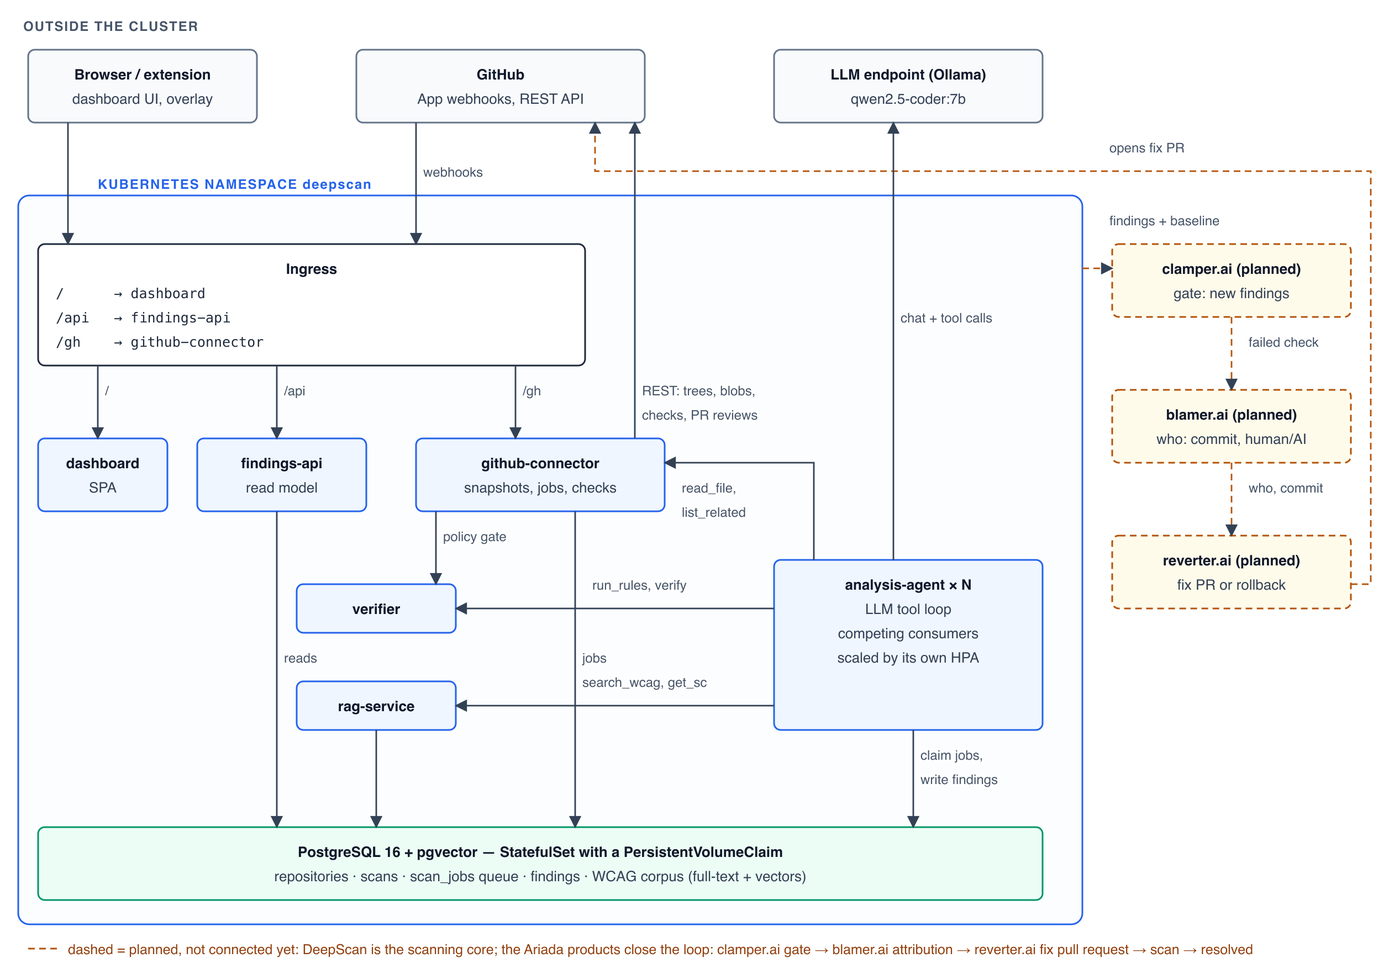
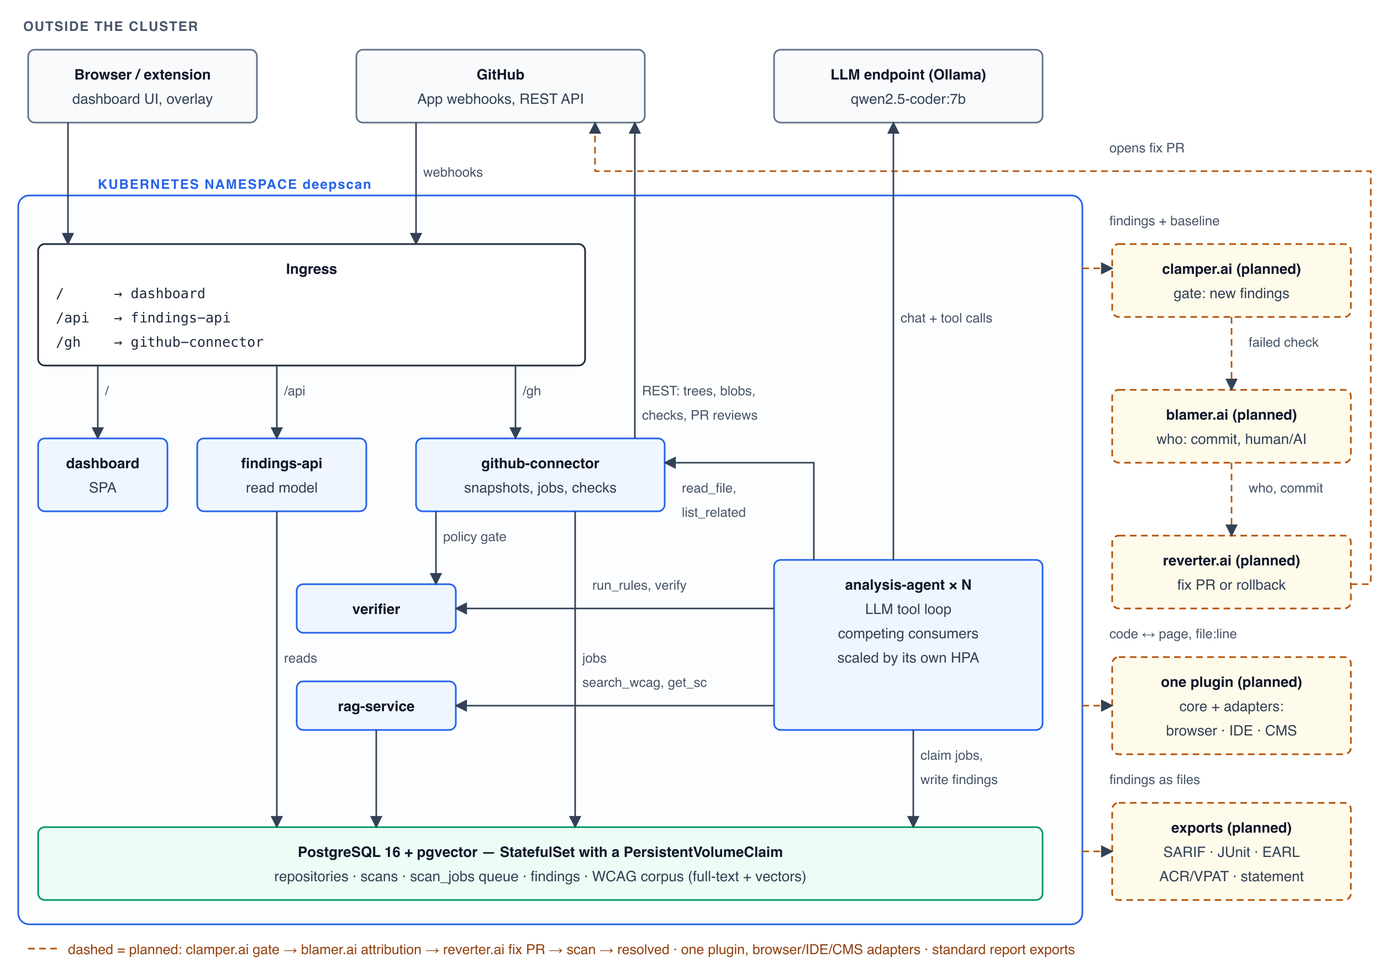
Show model load next to the elapsed time, and draw the plugin and export roadmap
While a scan runs, the scan page shows how busy the hardware behind the model
is: the host GPU or CPU in host mode (scripts/host-load.mjs, started by
deploy.sh), the Ollama pod's cores in cluster mode (metrics API, read with a
findings-api service account granted only in that overlay). kind-up.sh now
installs metrics-server, which the HPAs needed anyway.

The architecture diagram and REPORT §5 gain two planned (dashed) pieces: one
plugin core with browser, editor and CMS adapters, working from code to page
and back, and exports in standard report formats (SARIF, JUnit XML, EARL,
ACR/VPAT, accessibility statement).

findings-api 1.2.0, dashboard 1.2.1.

diff --git a/services/findings-api/src/model-load.ts b/services/findings-api/src/model-load.ts
@@ -1,0 +1,97 @@
+/**
+ * How busy the hardware behind the model is, for the scan page. Ollama's /api/ps says which model is
+ * loaded and whether it sits in GPU memory; the load itself comes from wherever the model runs:
+ *   host     scripts/host-load.mjs next to the host's Ollama (the cluster cannot see the host's GPU)
+ *   cluster  the metrics API (metrics-server) for the ollama pod
+ *   mock     nothing to measure
+ */
+import fs from "node:fs";
+import https from "node:https";
+import { z } from "zod";
+import type { ProgressResponse } from "@deepscan/contracts";
+
+export type ModelLoad = NonNullable<z.output<typeof ProgressResponse>["model"]>;
+export type RunsOn = ModelLoad["runsOn"];
+
+const Ps = z.object({ models: z.array(z.object({ name: z.string(), size: z.number(), size_vram: z.number().optional() })) });
+const HostLoad = z.object({ gpuPct: z.number().nullable(), cpuPct: z.number().nullable() });
+const PodMetrics = z.object({ items: z.array(z.object({ containers: z.array(z.object({ name: z.string(), usage: z.object({ cpu: z.string() }) })) })) });
+
+/** a Kubernetes CPU quantity ("1234567n", "250m", "2") in cores */
+export function cpuCores(q: string): number {
+  const m = /^(\d+(?:\.\d+)?)([num]?)$/.exec(q);
+  if (!m) return NaN;
+  const div = { n: 1e9, u: 1e6, m: 1e3, "": 1 }[m[2] as "n" | "u" | "m" | ""];
+  return Number(m[1]) / div;
+}
+
+/** put the pieces together; anything that could not be read stays null */
+export function combine(runsOn: RunsOn, ps: z.output<typeof Ps> | null, host: z.output<typeof HostLoad> | null, podCores: number | null): ModelLoad {
+  if (runsOn === "mock") return { runsOn, name: null, device: null, pct: null, cores: null };
+  const m = ps?.models[0];
+  const device = m ? ((m.size_vram ?? 0) > 0 ? "gpu" : "cpu") : runsOn === "cluster" ? "cpu" : null;
+  const pct = runsOn === "host" && host && device ? (device === "cpu" ? host.cpuPct : host.gpuPct) : null;
+  const round = (n: number | null) => (n === null || !Number.isFinite(n) ? null : Math.round(n * 10) / 10);
+  return { runsOn, name: m?.name ?? null, device, pct: round(pct), cores: runsOn === "cluster" ? round(podCores) : null };
+}
+
+async function getJson<S extends z.ZodType>(url: string, schema: S): Promise<z.output<S> | null> {
+  try {
+    const r = await fetch(url, { signal: AbortSignal.timeout(1500) });
+    return r.ok ? schema.parse(await r.json()) : null;
+  } catch {
+    return null;
+  }
+}
+
+const SA = "/var/run/secrets/kubernetes.io/serviceaccount";
+
+/** CPU cores used by the ollama pod, from the metrics API, with this pod's service-account token */
+function ollamaPodCores(): Promise<number | null> {
+  let token: string, ca: Buffer, ns: string;
+  try {
+    token = fs.readFileSync(`${SA}/token`, "utf8");
+    ca = fs.readFileSync(`${SA}/ca.crt`);
+    ns = fs.readFileSync(`${SA}/namespace`, "utf8").trim();
+  } catch {
+    return Promise.resolve(null);   // no token mounted: only the cluster overlay grants one
+  }
+  const path = `/apis/metrics.k8s.io/v1beta1/namespaces/${ns}/pods?labelSelector=${encodeURIComponent("app.kubernetes.io/name=ollama")}`;
+  return new Promise((resolve) => {
+    const req = https.get({ host: "kubernetes.default.svc", path, ca, headers: { authorization: `Bearer ${token}` }, timeout: 1500 }, (res) => {
+      let body = "";
+      res.on("data", (c) => (body += c));
+      res.on("end", () => {
+        let p;
+        try {
+          p = res.statusCode === 200 ? PodMetrics.safeParse(JSON.parse(body)) : null;
+        } catch {
+          p = null;
+        }
+        if (!p?.success || !p.data.items.length) return resolve(null);
+        resolve(p.data.items.flatMap((i) => i.containers).reduce((a, c) => a + cpuCores(c.usage.cpu), 0));
+      });
+    });
+    req.on("timeout", () => req.destroy());
+    req.on("error", () => resolve(null));
+  });
+}
+
+/** a probe that every progress poll may call: it asks at most once every two seconds */
+export function modelLoadProbe(o: { runsOn: RunsOn; openAiBaseUrl: string; hostLoadUrl: string }) {
+  const base = o.openAiBaseUrl.replace(/\/v1\/?$/, "");
+  let last: { at: number; value: Promise<ModelLoad> } | null = null;
+  const probe = async (): Promise<ModelLoad> => {
+    if (o.runsOn === "mock") return combine("mock", null, null, null);
+    const [ps, host, cores] = await Promise.all([
+      getJson(`${base}/api/ps`, Ps),
+      o.runsOn === "host" ? getJson(o.hostLoadUrl, HostLoad) : null,
+      o.runsOn === "cluster" ? ollamaPodCores() : null,
+    ]);
+    return combine(o.runsOn, ps, host, cores);
+  };
+  return () => {
+    if (!last || Date.now() - last.at > 2000) last = { at: Date.now(), value: probe() };
+    return last.value;
+  };
+}

diff --git a/services/dashboard/web/app.ts b/services/dashboard/web/app.ts
@@ -230,6 +230,20 @@ const podVar = (pod: string | null) => {
 };
 const shortPod = (p: string) => p.replace(/^analysis-agent-/, "");
 
+/** how busy the hardware behind the model is, next to the elapsed time while a scan runs */
+function modelLoad(m: NonNullable<Progress["model"]>) {
+  if (m.runsOn === "mock") return h("span", { class: "load", title: "LLM=mock: a scripted stand-in answers, nothing is computed" }, "Mock model, no compute");
+  const where = `${m.name ?? "model"} ${m.runsOn === "host" ? "on the host" : "in the ollama pod"}`;
+  const unit = m.device === "gpu" ? "GPU" : "CPU";
+  const amount = m.runsOn === "cluster"
+    ? (m.cores === null ? "…" : `${m.cores.toFixed(1)} cores`)
+    : (m.pct === null ? "…" : `${Math.round(m.pct)}%`);
+  return h("span", { class: "load", title: m.name ? `busy share of the ${m.device === "gpu" ? "GPU" : "CPU"} that runs ${where}` : "the model is not loaded yet" },
+    m.pct === null ? null : h("span", { class: "load-bar", "aria-hidden": "true" }, h("span", { style: { width: `${Math.min(100, Math.max(3, m.pct))}%` } })),
+    h("span", { class: "mono" }, m.device ? `${unit} ${amount}` : "loading model"),
+    ` · ${where}`);
+}
+
 interface ScanState { tree: Tree | null; progress: Progress | null; selected: string | null; showRejected: boolean; findings: Finding[]; findingsFor: string | null; }
 
 function buildTree(files: FileNode[]) {
@@ -283,6 +297,7 @@ async function scanPage(id: string) {
           h("span", {}, s.kind === "pr" ? `Pull request #${s.prNumber}` : "Full scan"),
           h("span", { class: "mono" }, `${s.ref} @ ${s.headSha.slice(0, 7)}`),
           p ? h("span", {}, `${(p.elapsedMs / 1000).toFixed(1)} s`) : null,
+          p?.model && !finished ? modelLoad(p.model) : null,
           h("a", { href: `#/repos/${s.repoId}` }, "Scan history"),
           cmp,
         ),

diff --git a/services/findings-api/test/model-load.test.ts b/services/findings-api/test/model-load.test.ts
@@ -1,0 +1,36 @@
+import { describe, it, expect } from "vitest";
+import { cpuCores, combine } from "../src/model-load.js";
+
+describe("cpuCores", () => {
+  it("reads the units metrics-server uses", () => {
+    expect(cpuCores("1850000000n")).toBeCloseTo(1.85);
+    expect(cpuCores("250m")).toBeCloseTo(0.25);
+    expect(cpuCores("3500u")).toBeCloseTo(0.0035);
+    expect(cpuCores("2")).toBe(2);
+    expect(cpuCores("lots")).toBeNaN();
+  });
+});
+
+describe("combine", () => {
+  const loaded = (vram: number) => ({ models: [{ name: "qwen2.5-coder:7b", size: 7_000, size_vram: vram }] });
+
+  it("mock has nothing to measure", () => {
+    expect(combine("mock", null, null, null)).toEqual({ runsOn: "mock", name: null, device: null, pct: null, cores: null });
+  });
+
+  it("host: the GPU share when the model sits in GPU memory, the CPU share when it does not", () => {
+    const host = { gpuPct: 76, cpuPct: 31 };
+    expect(combine("host", loaded(7_000), host, null)).toMatchObject({ device: "gpu", pct: 76, cores: null, name: "qwen2.5-coder:7b" });
+    expect(combine("host", loaded(0), host, null)).toMatchObject({ device: "cpu", pct: 31 });
+  });
+
+  it("host: an unreachable reporter or unloaded model leaves the numbers unknown, not zero", () => {
+    expect(combine("host", loaded(7_000), null, null)).toMatchObject({ device: "gpu", pct: null });
+    expect(combine("host", { models: [] }, { gpuPct: 5, cpuPct: 5 }, null)).toMatchObject({ name: null, device: null, pct: null });
+  });
+
+  it("cluster: CPU cores of the pod, rounded to a tenth", () => {
+    expect(combine("cluster", loaded(0), null, 1.8734)).toMatchObject({ device: "cpu", cores: 1.9, pct: null });
+    expect(combine("cluster", null, null, null)).toMatchObject({ device: "cpu", cores: null });
+  });
+});

diff --git a/services/findings-api/src/index.ts b/services/findings-api/src/index.ts
@@ -6,12 +6,18 @@ import {
 } from "@deepscan/contracts";
 import { BaseEnv, DbEnv, loadEnv, createService, listen, createDb, sessionFromCookie, readCookie, SESSION_COOKIE, bool, type Session } from "@deepscan/platform";
 import { canSee, scanSummary, toRecord, diffScans } from "./queries.js";
+import { modelLoadProbe } from "./model-load.js";
 
 const env = loadEnv(BaseEnv.extend(DbEnv.shape).extend({
   ALLOW_PUBLIC_SCANS: bool.default(true),
   /** extra origins allowed to call the plugin endpoint (chrome-extension://… is always allowed) */
   PLUGIN_ORIGINS: z.string().default(""),
+  /** where the model runs, for the load shown on the scan page (set by the llm-host / llm-cluster overlays) */
+  MODEL_RUNS_ON: z.enum(["mock", "host", "cluster"]).default("mock"),
+  OPENAI_BASE_URL: z.string().url().default("http://ollama:11434/v1"),
+  HOST_LOAD_URL: z.string().url().default("http://ollama:11435/load"),
 }));
+const modelLoad = modelLoadProbe({ runsOn: env.MODEL_RUNS_ON, openAiBaseUrl: env.OPENAI_BASE_URL, hostLoadUrl: env.HOST_LOAD_URL });
 const { db, ping } = createDb(env.DATABASE_URL, env.DB_POOL_MAX);
 const app = await createService({ name: "findings-api", podName: env.POD_NAME, logLevel: env.LOG_LEVEL, ready: ping });
 
@@ -97,6 +103,7 @@ app.get("/api/scans/:id/progress", { schema: { ...scanParams, response: { 200: P
     byStatus: Object.fromEntries(by.map((r) => [r.status, r.n])), pods: pods.map((p) => ({ pod: p.locked_by!, files: p.n })),
     findings: Object.fromEntries(f.map((r) => [r.status, r.n])),
     elapsedMs: (scan.finished_at ?? new Date()).getTime() - scan.created_at.getTime(),
+    model: s.summary.status === "running" ? await modelLoad() : null,
   };
 });
 

diff --git a/packages/contracts/src/api.ts b/packages/contracts/src/api.ts
@@ -134,6 +134,16 @@ export const ProgressResponse = z.object({
   pods: z.array(z.object({ pod: z.string(), files: z.number().int() })),
   findings: z.record(z.string(), z.number().int()),
   elapsedMs: z.number().int(),
+  /** while the scan runs: where the model runs and how busy that hardware is (null fields: not known) */
+  model: z.object({
+    runsOn: z.enum(["mock", "host", "cluster"]),
+    name: z.string().nullable(),
+    device: z.enum(["gpu", "cpu"]).nullable(),
+    /** busy share of the host's GPU or CPU, percent */
+    pct: z.number().nullable(),
+    /** CPU cores the model's pod uses */
+    cores: z.number().nullable(),
+  }).nullable().optional(),
 });
 
 export const FindingsResponse = z.object({ findings: z.array(FindingRecord) });

diff --git a/services/dashboard/web/styles.css b/services/dashboard/web/styles.css
@@ -177,3 +177,8 @@ h1.mono { font-family: var(--mono); font-size: clamp(1.25rem, 2.6vw, 1.75rem); f
 .page-head { display: flex; flex-wrap: wrap; align-items: center; gap: .75rem 1rem; margin-bottom: 1rem; }
 .scan-head .page-head { margin-bottom: 0; }
 .rescan { display: inline-flex; align-items: center; gap: .5rem; }
+
+/* model load next to the elapsed time: a thin bar plus the number */
+.scan-head .load { display: inline-flex; align-items: center; gap: .4rem; }
+.load-bar { width: 44px; height: 8px; border-radius: 4px; background: var(--line); overflow: hidden; display: inline-block; }
+.load-bar > span { display: block; height: 100%; background: var(--blue); transition: width .6s ease; }

diff --git a/docs/REPORT.md b/docs/REPORT.md
@@ -59,20 +59,20 @@ The same diagram as text:
 ║                         │               ▼             │                   ┌──────────────────────────┐   ║  ┆ reverter.ai (planned) ┆ ┆
 ║                         │ ┌───────────────┐           │ run_rules, verify │ analysis-agent × N       │   ║  ┆ fix PR or rollback    ┆┄┘
 ║                         │ │ verifier      │◀──────────┼───────────────────│ LLM tool loop            │   ║  └┄┄┄┄┄┄┄┄┄┄┄┄┄┄┄┄┄┄┄┄┄┄┄┘
-║                         │ └───────────────┘           │                   │ competing consumers      │   ║
-║                         │reads                        │jobs               │ scaled by its own HPA    │   ║
-║                         │ ┌───────────────┐           │search_wcag, get_sc│                          │   ║
-║                         │ │ rag-service   │◀──────────┼───────────────────│                          │   ║
-║                         │ └───────────────┘           │                   └──────────────────────────┘   ║
-║                         │         │                   │                                 │claim jobs,     ║
-║                         │         │                   │                                 │write findings  ║
-║                         ▼         ▼                   ▼                                 ▼                ║
-║ ┌────────────────────────────────────────────────────────────────────────────────────────────────────┐   ║
-║ │ PostgreSQL 16 + pgvector — StatefulSet with a PersistentVolumeClaim                                │   ║
-║ │ repositories · scans · scan_jobs queue · findings · WCAG corpus (full-text + vectors)              │   ║
-║ └────────────────────────────────────────────────────────────────────────────────────────────────────┘   ║
+║                         │ └───────────────┘           │                   │ competing consumers      │   ║  code ↔ page, file:line
+║                         │reads                        │jobs               │ scaled by its own HPA    │   ║  ┌┄┄┄┄┄┄┄┄┄┄┄┄┄┄┄┄┄┄┄┄┄┄┄┐
+║                         │ ┌───────────────┐           │search_wcag, get_sc│                          │   ║  ┆ one plugin (planned)  ┆
+║                         │ │ rag-service   │◀──────────┼───────────────────│                          │   ║┄▶┆ core + adapters:      ┆
+║                         │ └───────────────┘           │                   └──────────────────────────┘   ║  ┆ browser · IDE · CMS   ┆
+║                         │         │                   │                                 │claim jobs,     ║  └┄┄┄┄┄┄┄┄┄┄┄┄┄┄┄┄┄┄┄┄┄┄┄┘
+║                         │         │                   │                                 │write findings  ║  findings as files
+║                         ▼         ▼                   ▼                                 ▼                ║  ┌┄┄┄┄┄┄┄┄┄┄┄┄┄┄┄┄┄┄┄┄┄┄┄┐
+║ ┌────────────────────────────────────────────────────────────────────────────────────────────────────┐   ║  ┆ exports (planned)     ┆
+║ │ PostgreSQL 16 + pgvector — StatefulSet with a PersistentVolumeClaim                                │   ║┄▶┆ SARIF · JUnit · EARL  ┆
+║ │ repositories · scans · scan_jobs queue · findings · WCAG corpus (full-text + vectors)              │   ║  ┆ ACR/VPAT · statement  ┆
+║ └────────────────────────────────────────────────────────────────────────────────────────────────────┘   ║  └┄┄┄┄┄┄┄┄┄┄┄┄┄┄┄┄┄┄┄┄┄┄┄┘
 ╚══════════════════════════════════════════════════════════════════════════════════════════════════════════╝
- ┄┄ dashed = planned Ariada products: clamper.ai gates → blamer.ai finds who → reverter.ai opens fix PR → scan → resolved
+ ┄┄ dashed = planned: clamper.ai gate → blamer.ai who → reverter.ai fix PR → rescan; one plugin, many adapters; standard exports
 ```
 <!-- architecture:end -->
 
@@ -172,7 +172,11 @@ The language model is not part of the deployment. It is an external endpoint tha
 
 **More scan domains.** The first domain is web accessibility, because that is where the law (the European Accessibility Act) creates demand now. Nothing in the architecture is tied to it, though. The rules work on a framework-neutral element model, the knowledge base is a corpus loaded into `rag-service`, the list of valid criteria is an enum in the contract layer, and fingerprints, baselines and the pull-request gate do not care what a finding is about. Other domains can be added the same way, each with its own rule pack, corpus and criteria list. Ariada's domain catalogue already names them. Next to accessibility, the core domains are security (unsafe HTML injection, missing security headers, secrets in client code), privacy (trackers and cookies loaded before consent, in the GDPR sense), sustainability (page weight and wasted transfers), AI readiness (whether crawlers and language models can read the site) and structured data. After those come performance, search, localization and reliability. Each domain can get its own job queue and agent Deployment, so a heavy domain scales without slowing the others.
 
-**One browser extension.** DeepScan has a small extension of its own, which outlines the findings from the repository on the live site. Ariada also has a side-panel extension that scans the open page itself, locally, in the same domains. The two look at the same problem from opposite ends, from the code to the page and from the page to the code, and they belong in one extension. Its side panel would show the live scan next to the findings from the source, lead from an element on the page to its file and line, and ask reverter.ai for a fix. If the same rule modules are used in both places, the browser and the repository give the same answer.
+**One plugin, many adapters.** DeepScan has a small browser extension of its own, which outlines the findings from the repository on the live site. Ariada also has a side-panel extension that scans the open page itself, locally, and an editor extension for VS Code (Visual Studio Code) and JetBrains IDEs (integrated development environments) that marks problems inline while the code is being written. These are the same idea seen from different places, and they should be one plugin: a shared core that holds the rule modules, the finding format and the connection to DeepScan, with a thin adapter for each place it runs in. The browser adapter works from the page towards the code: click an element and land on its file and line. The editor adapter works from the code towards the page: a finding in the editor shows where it appears on the live site. A CMS (content management system) adapter, for WordPress, Drupal or Shopify themes, does the same for people who never open a repository. Ariada already plans connectors for about two hundred CMS, hosting, shop and CI (continuous integration) platforms, and they would all be adapters of this one core. Because every adapter runs the same rules, the browser, the editor and the repository give the same answer.
+
+**Seeing the code behind a finding.** The dashboard now names the file and the line but does not show them. The next version shows the code itself with the offending lines highlighted, and a link that opens the same place in the developer's own editor (`vscode://file/<path>:<line>` and its JetBrains equivalent). For people without a local checkout, a read-only built-in viewer with the same highlighting is enough.
+
+**Reports in standard formats.** Today the results live in the dashboard and in GitHub comments, which is enough for a developer but not for anyone who has to hand evidence on. The plan is a set of exports, each for a specific reader. SARIF 2.1.0 (Static Analysis Results Interchange Format) goes into GitHub code scanning and is read by GitLab, Azure DevOps and SonarQube as well. JUnit XML lets any CI server show the findings as failed tests, and GitLab's Code Quality JSON puts them into merge requests. For auditors there is EARL (the W3C Evaluation and Report Language) and a report in the WCAG-EM (WCAG Evaluation Methodology) structure. For buyers and public authorities there is an ACR (Accessibility Conformance Report) in the VPAT 2.5 (Voluntary Product Accessibility Template) format with the EN 301 549 tables, and a draft accessibility statement in the form the EU Web Accessibility Directive requires (in Sweden the DIGG template). A CSV or spreadsheet export covers everything else. Ariada already has emitters for SARIF, VPAT and EN 301 549, so most of this is wiring DeepScan's findings into them.
 
 **Scaling on the right signal.** The agents are scaled on CPU today, which is a weak signal for work that mostly waits for the model. Scaling on the length of the job queue with KEDA (Kubernetes Event-driven Autoscaling) is the next change to the deployment.
 

diff --git a/README.md b/README.md
@@ -114,6 +114,8 @@ The analysis agents need a model, and there are three ways to give them one:
 
 `host` is the one to use for a real demo on a Mac: containers there cannot reach the GPU, the host's Ollama can. The overlays live in `overlays/llm-host` and `overlays/llm-cluster`; `LLM=<mode> ./scripts/deploy.sh` switches an existing cluster between modes and ends with a check that an agent pod reaches the model.
 
+While a scan runs, its page shows next to the elapsed seconds how busy the hardware behind the model is: the host GPU (or CPU) in `host` mode, read by `scripts/host-load.mjs`, which `deploy.sh` starts on port 11435 next to Ollama, and the cores the Ollama pod uses in `cluster` mode, read from the metrics API. `kind-up.sh` also installs `metrics-server`, which the HPAs and that reading need.
+
 For any other cluster:
 
 ```bash
@@ -127,7 +129,7 @@ DOCKERHUB_USER=<you> TAG=1.0.0 ./scripts/build-push.sh
 kubectl -n deepscan port-forward svc/dashboard 8080:8080     # → http://localhost:8080
 ```
 
-With an ingress-nginx controller installed, the app is also served on the controller's address. The HPAs need `metrics-server`. The NetworkPolicies need a CNI that enforces them (Calico or Cilium; Docker Desktop ignores them).
+With an ingress-nginx controller installed, the app is also served on the controller's address. The HPAs need `metrics-server` (`kind-up.sh` installs it; on other clusters install it yourself). The NetworkPolicies need a CNI that enforces them (Calico or Cilium; Docker Desktop ignores them).
 
 Useful commands for the demo:
 
